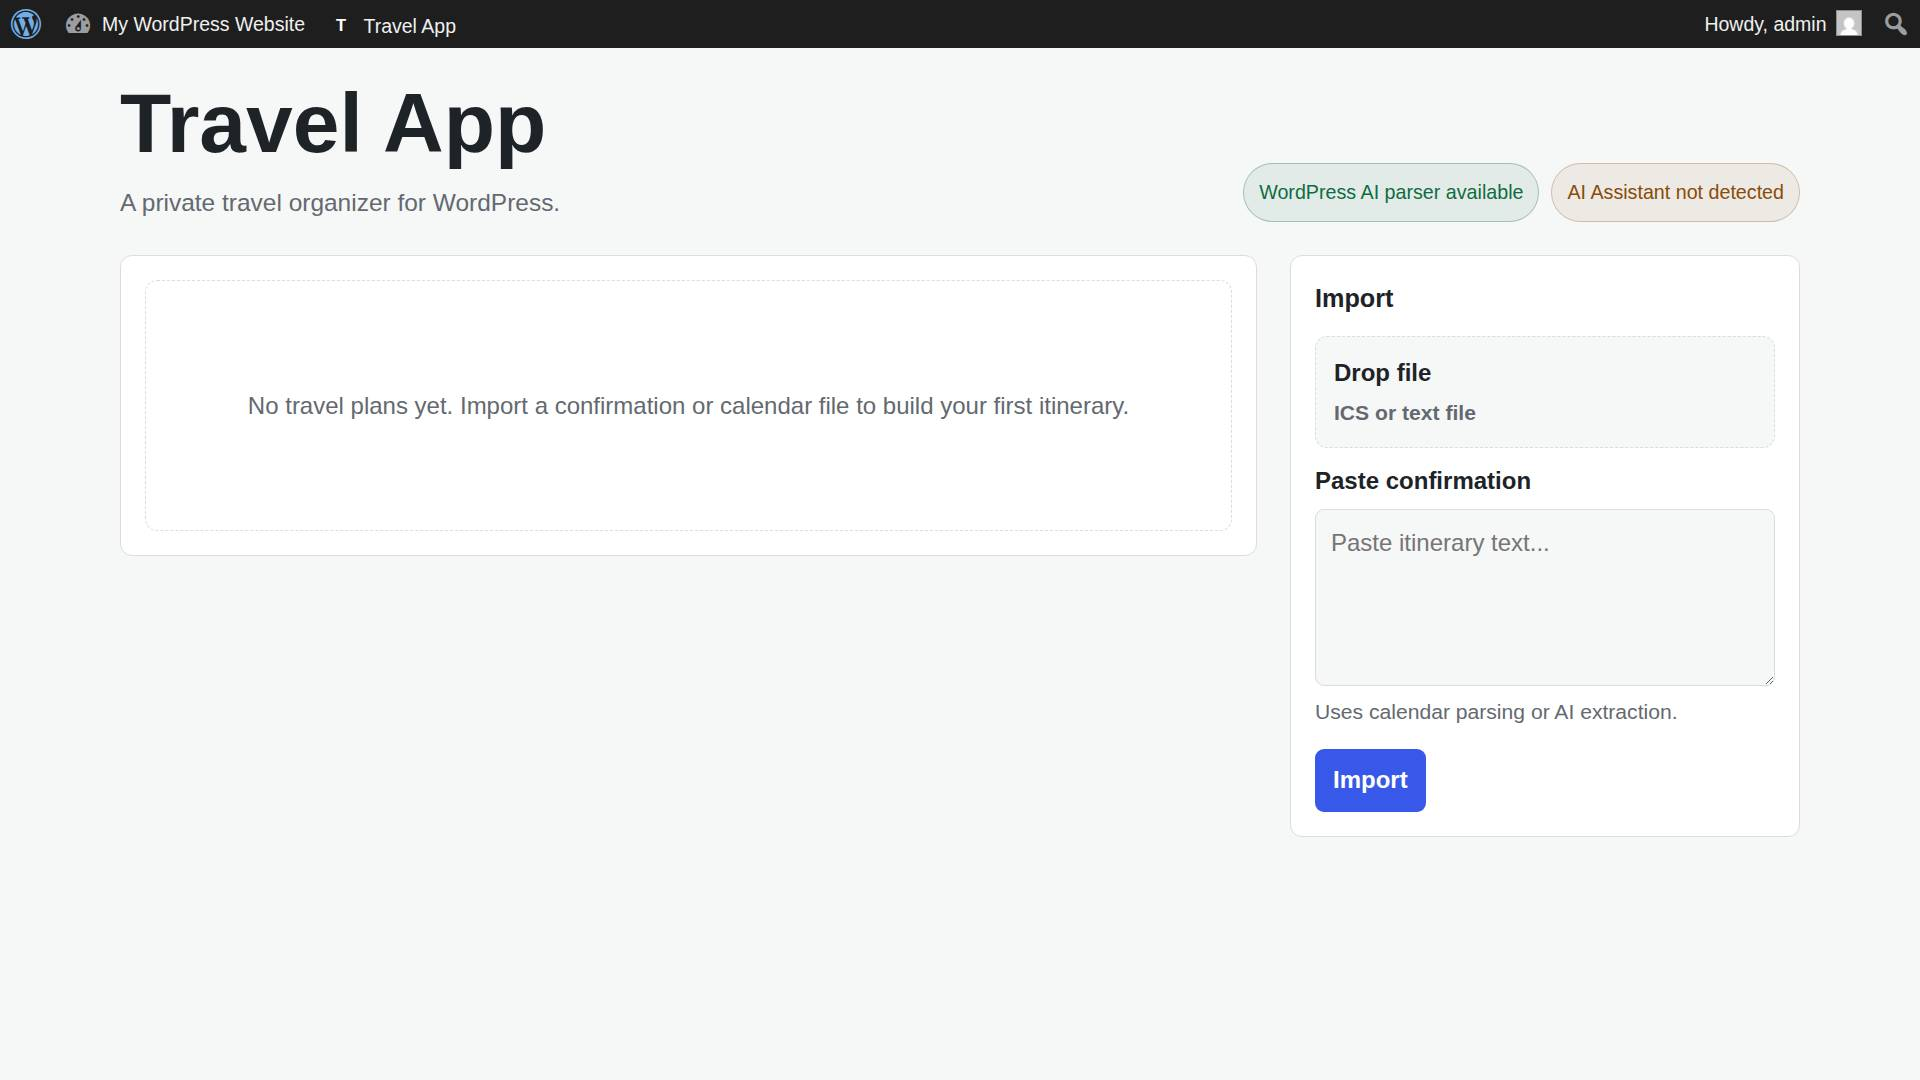
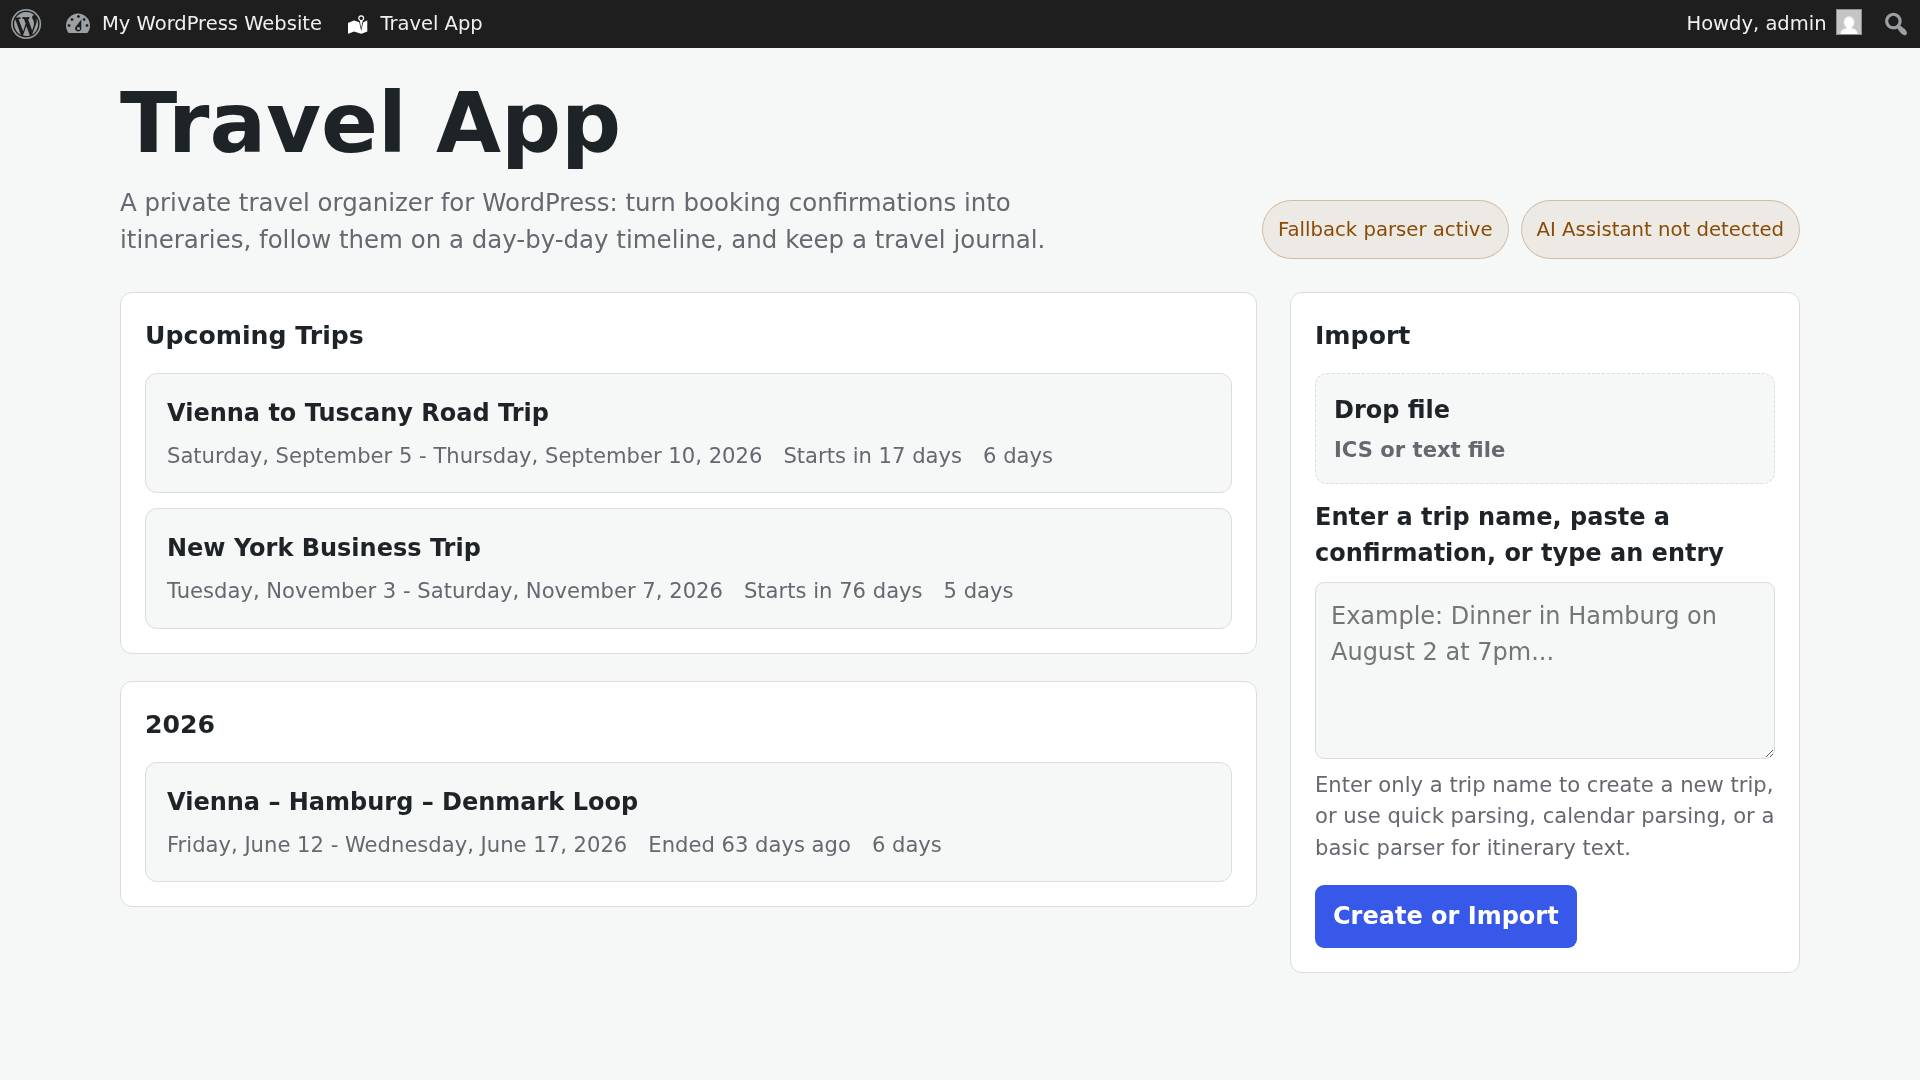
Trigger and force a re-shoot when demo.json changes
The screenshot workflow only watched blueprint.json, and the script only shot Blueprints missing a screenshot entirely, so a demo.json added to an existing Blueprint (like travel-app) was silently ignored. Watch demo.json in the workflow trigger paths, and force a re-shoot for any Blueprint whose blueprint.json or demo.json this PR touched, reusing the changed-files helper already used by sync-apps and the blueprint validator. Also regenerate travel-app's screenshot now that it has a demo.json, confirmed against the pushed branch.

diff --git a/scripts/screenshot-blueprints.ts b/scripts/screenshot-blueprints.ts
@@ -2,6 +2,7 @@
 import { chromium, devices } from 'playwright';
 import { promises as fs, readFileSync } from 'node:fs';
 import path from 'node:path';
+import { getChangedFiles } from './lib/changed-files.js';
 
 const REPO = 'WordPress/blueprints';
 const REF = 'trunk';
@@ -94,6 +95,26 @@ async function hasDemoJson(slug: string): Promise<boolean> {
   }
 }
 
+// In CI, force a re-shoot for any Blueprint whose blueprint.json or demo.json
+// was touched by the current pull request, even if it already has a
+// screenshot.jpg. Outside CI (no CHANGED_FILES/CHANGED_FILES_PATH set), only
+// Blueprints missing a screenshot get shot.
+function getForceRegenSlugs(): Set<string> {
+  let changedFiles: string[];
+  try {
+    changedFiles = getChangedFiles();
+  } catch {
+    return new Set();
+  }
+
+  const slugs = new Set<string>();
+  for (const file of changedFiles) {
+    const m = file.match(/^blueprints\/([^/]+)\/(blueprint\.json|demo\.json)$/);
+    if (m) slugs.add(m[1]);
+  }
+  return slugs;
+}
+
 function resolveScreenshotLocalPath(screenshot: string, slug: string): string | null {
   // Case 1: http(s) raw link to *this* repo -> map to local file
   const m = screenshot.match(
@@ -157,10 +178,12 @@ async function main() {
   const slugs = await listBlueprintSlugs();
   console.log(`Using Blueprint source: ${RAW_REPO}@${RAW_REF}`);
 
-  // Filter: only those without any screenshot yet
+  // Filter: those without any screenshot yet, plus any this PR touched the
+  // blueprint.json/demo.json of (their existing screenshot may be stale).
+  const forceRegenSlugs = getForceRegenSlugs();
   const toShoot: string[] = [];
   for (const slug of slugs) {
-    if (!(await hasScreenshot(slug))) {
+    if (!(await hasScreenshot(slug)) || forceRegenSlugs.has(slug)) {
       toShoot.push(slug);
     }
   }
